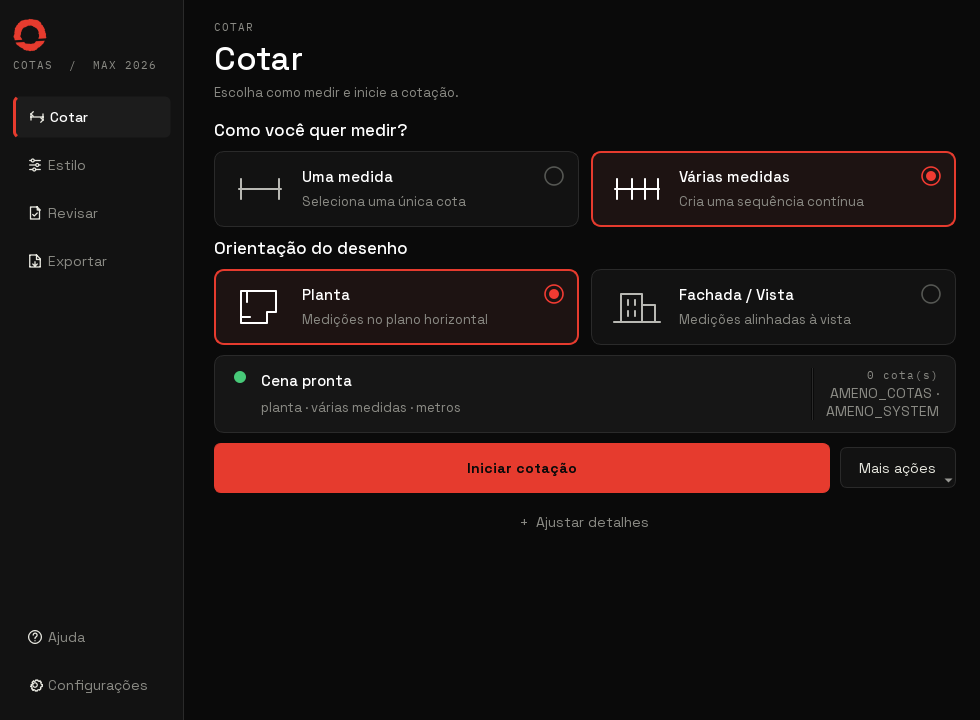
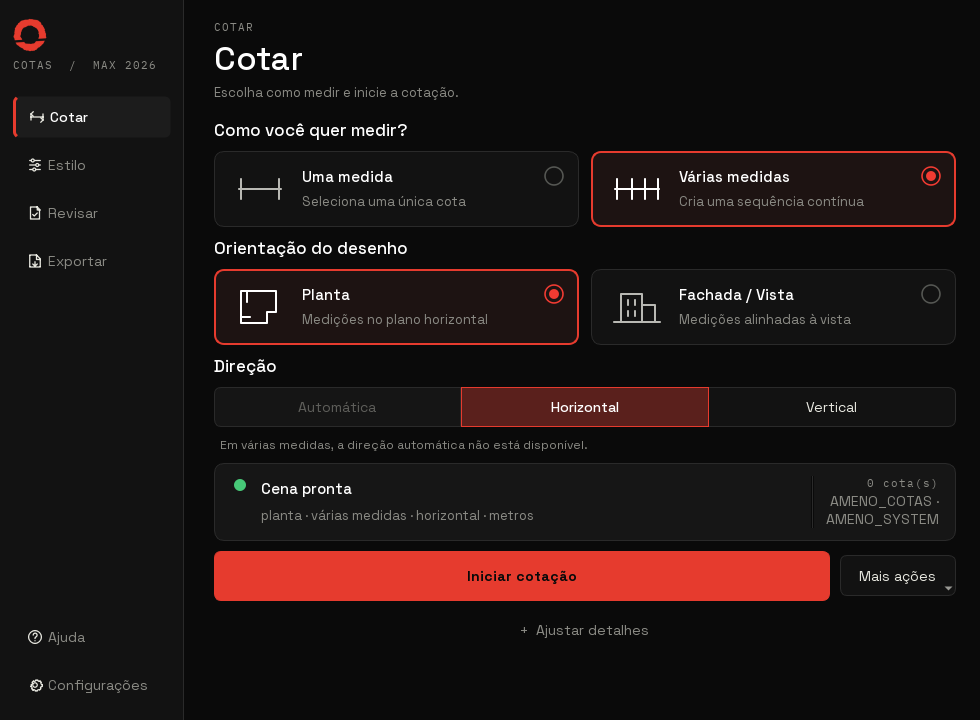
feat(e19): expose direction rules in cotar flow

Changed region(s): [[0.2143, 0.4889, 0.9796, 0.7333], [0.2143, 0.7639, 0.9796, 0.8861], [0.8265, 0.5194, 0.949, 0.5806]]

diff --git a/Contents/python/ameno_ui/create_page.py b/Contents/python/ameno_ui/create_page.py
@@ -6,7 +6,7 @@ from typing import Callable, Dict, List, Optional
 
 from .bridge import BridgeError, UiBridge
 from .common import button, group, message_label, set_bridge_error, set_message
-from .components import ChoiceGroup, Disclosure, PageHeader, SectionHeading, StatusDot
+from .components import ChoiceGroup, Disclosure, PageHeader, SectionHeading, SegmentedChoice, StatusDot
 from .models import CreateSnapshot, SceneSnapshot, StyleSnapshot
 from .preferences import settings
 from .qt_compat import QtCore, QtWidgets
@@ -55,6 +55,7 @@ class CreatePage(QtWidgets.QWidget):
                 ("Várias medidas", "Cria uma sequência contínua", "continuous"),
             )
         )
+        self._last_tool_choice = self.tool_choice.value()
         root.addWidget(self.tool_choice)
         root.addWidget(SectionHeading("Orientação do desenho"))
         self.plane_choice = ChoiceGroup(
@@ -65,13 +66,24 @@ class CreatePage(QtWidgets.QWidget):
         )
         root.addWidget(self.plane_choice)
 
+        root.addWidget(SectionHeading("Direção"))
+        self.mode = SegmentedChoice(
+            (
+                ("Automática", "aligned"),
+                ("Horizontal", "horizontal"),
+                ("Vertical", "vertical"),
+            )
+        )
+        root.addWidget(self.mode)
+        self.direction_message = QtWidgets.QLabel()
+        self.direction_message.setObjectName("DirectionRule")
+        self.direction_message.setWordWrap(True)
+        self.direction_message.setVisible(False)
+        root.addWidget(self.direction_message)
+
         details_box = group("")
         details_form = QtWidgets.QFormLayout(details_box)
         details_form.setFieldGrowthPolicy(QtWidgets.QFormLayout.FieldGrowthPolicy.AllNonFixedFieldsGrow)
-        self.mode = QtWidgets.QComboBox()
-        self.mode.addItem("Direção automática", "aligned")
-        self.mode.addItem("Somente horizontal", "horizontal")
-        self.mode.addItem("Somente vertical", "vertical")
         self.style = QtWidgets.QComboBox()
         self.unit = QtWidgets.QComboBox()
         for label, value in (
@@ -86,7 +98,6 @@ class CreatePage(QtWidgets.QWidget):
         self.precision.setSuffix(" casas")
         self.follow_line = QtWidgets.QCheckBox("Texto acompanha a linha")
         self.follow_line.setChecked(True)
-        details_form.addRow("Direção", self.mode)
         details_form.addRow("Aparência", self.style)
         details_form.addRow("Unidade", self.unit)
         details_form.addRow("Precisão", self.precision)
@@ -161,6 +172,8 @@ class CreatePage(QtWidgets.QWidget):
         self.delete_selection_action.triggered.connect(self.delete_selected)
         self.clear_orphans_action.triggered.connect(self.clear_orphan_dimensions)
         self.delete_all_action.triggered.connect(self.delete_all_dimensions)
+        self.tool_choice.changed.connect(self._on_tool_choice_changed)
+        self.mode.changed.connect(self._on_direction_changed)
         self.tool_choice.changed.connect(self._save_preferences)
         self.tool_choice.changed.connect(lambda *_args: self._update_summary())
         self.plane_choice.changed.connect(self._save_preferences)
@@ -186,6 +199,8 @@ class CreatePage(QtWidgets.QWidget):
         self.clear_orphans = self.clear_orphans_action
         self.delete_all = self.delete_all_action
         self._restore_preferences()
+        self._last_tool_choice = self.tool_choice.value()
+        self._sync_direction_rule(notify=False)
         self._update_summary()
         self.guide.setVisible(False)
 
@@ -214,11 +229,51 @@ class CreatePage(QtWidgets.QWidget):
     def _update_summary(self) -> None:
         tool = "uma medida" if self.tool_choice.value() == "single" else "várias medidas"
         plane = "planta" if self.plane_choice.value() == "worldXY" else "fachada/vista"
+        direction = {
+            "aligned": "automática",
+            "horizontal": "horizontal",
+            "vertical": "vertical",
+        }.get(str(self.mode.currentData()), "direção")
         unit = str(self.unit.currentText() or "unidade padrão").lower()
         self.selection_summary.setText(
-            "%s · %s · %s"
-            % (plane, tool, unit)
+            "%s · %s · %s · %s"
+            % (plane, tool, direction, unit)
         )
+
+    def _on_tool_choice_changed(self, value: str) -> None:
+        changed = value != self._last_tool_choice
+        self._last_tool_choice = value
+        self._sync_direction_rule(notify=changed)
+
+    def _on_direction_changed(self, _value: str) -> None:
+        if self.tool_choice.value() == "continuous":
+            self._show_direction_message(
+                "Em várias medidas, a direção automática não está disponível.",
+                feedback=False,
+            )
+        else:
+            self.direction_message.setVisible(False)
+
+    def _sync_direction_rule(self, notify: bool) -> None:
+        continuous = self.tool_choice.value() == "continuous"
+        was_automatic = self.mode.currentData() == "aligned"
+        if continuous and (was_automatic or notify):
+            self.mode.set_value("horizontal", emit=True)
+        self.mode.set_item_enabled("aligned", not continuous)
+        if continuous:
+            message = (
+                "Direção alterada para Horizontal · Automática só funciona em uma medida."
+                if notify and was_automatic
+                else "Em várias medidas, a direção automática não está disponível."
+            )
+            self._show_direction_message(message, feedback=bool(notify and was_automatic))
+        else:
+            self.direction_message.setVisible(False)
+
+    def _show_direction_message(self, text: str, feedback: bool) -> None:
+        self.direction_message.setText(text)
+        self.direction_message.setProperty("feedback", feedback)
+        self.direction_message.setVisible(True)
 
     @staticmethod
     def _vertical_rule() -> QtWidgets.QFrame:
@@ -248,7 +303,7 @@ class CreatePage(QtWidgets.QWidget):
         self._preferences.setValue("create/precision", self.precision.value())
         self._preferences.setValue("create/followLine", self.follow_line.isChecked())
 
-    def _set_combo(self, combo: QtWidgets.QComboBox, value: str) -> None:
+    def _set_combo(self, combo, value: str) -> None:
         index = combo.findData(value)
         if index >= 0:
             blocker = QtCore.QSignalBlocker(combo)
@@ -332,6 +387,15 @@ class CreatePage(QtWidgets.QWidget):
             self._set_busy(False)
 
     def start_selected(self) -> None:
+        if self.tool_choice.value() == "continuous" and self.mode.currentData() == "aligned":
+            QtWidgets.QMessageBox.warning(
+                self,
+                "Direção automática indisponível",
+                "Em várias medidas, escolha Horizontal ou Vertical para continuar.",
+            )
+            self.mode.set_item_enabled("aligned", False)
+            self.mode.set_value("horizontal", emit=True)
+            return
         if not self.apply_settings():
             return
         self._run_tool(self.tool_choice.value() == "continuous")

diff --git a/Contents/python/ameno_ui/components.py b/Contents/python/ameno_ui/components.py
@@ -242,6 +242,84 @@ class ChoiceGroup(QtWidgets.QWidget):
             self._layout.addWidget(widget, index // columns, index % columns)
 
 
+class SegmentedChoice(QtWidgets.QWidget):
+    """Compact exclusive selector with a small QComboBox-compatible surface."""
+
+    changed = QtCore.Signal(str)
+    currentIndexChanged = QtCore.Signal(int)
+
+    def __init__(self, choices: Sequence[Tuple[str, str]]) -> None:
+        super().__init__()
+        self.setObjectName("SegmentedChoice")
+        self.buttons = QtWidgets.QButtonGroup(self)
+        self.buttons.setExclusive(True)
+        self._items = list(choices)
+        self._by_value = {}
+        layout = QtWidgets.QHBoxLayout(self)
+        layout.setContentsMargins(0, 0, 0, 0)
+        layout.setSpacing(0)
+        last = len(self._items) - 1
+        for index, (label, value) in enumerate(self._items):
+            widget = QtWidgets.QPushButton(label)
+            widget.setCheckable(True)
+            widget.setProperty("segment", True)
+            widget.setProperty("segmentPosition", "first" if index == 0 else "last" if index == last else "middle")
+            widget.setProperty("choiceValue", value)
+            widget.setAccessibleName("Direção: " + label)
+            widget.setMinimumHeight(36)
+            self.buttons.addButton(widget, index)
+            self._by_value[value] = widget
+            layout.addWidget(widget, 1)
+            widget.clicked.connect(lambda checked=False, item=value: self._emit_clicked(item) if checked else None)
+        if self._items:
+            self.set_value(self._items[0][1], emit=False)
+
+    def value(self) -> str:
+        checked = self.buttons.checkedButton()
+        return str(checked.property("choiceValue")) if checked is not None else ""
+
+    def currentData(self) -> str:
+        return self.value()
+
+    def currentIndex(self) -> int:
+        return self.findData(self.value())
+
+    def findData(self, value: str) -> int:
+        for index, (_label, item_value) in enumerate(self._items):
+            if item_value == value:
+                return index
+        return -1
+
+    def setCurrentIndex(self, index: int) -> None:
+        if 0 <= index < len(self._items):
+            self.set_value(self._items[index][1], emit=True)
+
+    def set_value(self, value: str, emit: bool = False) -> None:
+        widget = self._by_value.get(value)
+        if widget is None or not widget.isEnabled():
+            return
+        changed = self.value() != value
+        widget.setChecked(True)
+        if emit and changed:
+            index = self.findData(value)
+            self.changed.emit(value)
+            self.currentIndexChanged.emit(index)
+
+    def _emit_clicked(self, value: str) -> None:
+        index = self.findData(value)
+        self.changed.emit(value)
+        self.currentIndexChanged.emit(index)
+
+    def set_item_enabled(self, value: str, enabled: bool) -> None:
+        widget = self._by_value.get(value)
+        if widget is not None:
+            widget.setEnabled(enabled)
+
+    def is_item_enabled(self, value: str) -> bool:
+        widget = self._by_value.get(value)
+        return bool(widget is not None and widget.isEnabled())
+
+
 class Disclosure(QtWidgets.QWidget):
     def __init__(self, label: str, content: QtWidgets.QWidget, expanded: bool = False) -> None:
         super().__init__()

diff --git a/tests/python/test_e19_cotar_reference.py b/tests/python/test_e19_cotar_reference.py
@@ -13,7 +13,7 @@ sys.path.insert(0, str(ROOT / "Contents" / "python"))
 
 from PySide6 import QtCore, QtWidgets  # noqa: E402
 
-from ameno_ui.components import ChoiceCard  # noqa: E402
+from ameno_ui.components import ChoiceCard, SegmentedChoice  # noqa: E402
 from ameno_ui.window import AmenoMainWindow  # noqa: E402
 
 
@@ -73,4 +73,62 @@ def test_choice_cards_keep_one_active_option_per_question() -> None:
     assert page.plane_choice.value() == "viewPlane"
     assert sum(card.isChecked() for card in page.tool_choice.findChildren(ChoiceCard)) == 1
     assert sum(card.isChecked() for card in page.plane_choice.findChildren(ChoiceCard)) == 1
+    window.close()
+
+
+def test_continuous_measurement_prevents_automatic_direction_in_the_main_flow() -> None:
+    _app()
+    os.environ["AMENO_SETTINGS_FILE"] = str(Path(tempfile.mkdtemp()) / "e19-direction.ini")
+    window = AmenoMainWindow(ReferenceBridge(), lambda _token: None, lambda: None)
+    page = window.shell.pages["create"]
+    assert isinstance(page.mode, SegmentedChoice)
+    page.tool_choice.set_value("single", emit=True)
+    page.mode.set_value("aligned", emit=True)
+
+    page.tool_choice.set_value("continuous", emit=True)
+
+    assert page.mode.currentData() == "horizontal"
+    assert not page.mode.is_item_enabled("aligned")
+    assert not page.direction_message.isHidden()
+    assert page.direction_message.text() == (
+        "Direção alterada para Horizontal · Automática só funciona em uma medida."
+    )
+
+    page.mode.set_value("vertical", emit=True)
+    assert page.mode.currentData() == "vertical"
+    assert page.direction_message.text() == (
+        "Em várias medidas, a direção automática não está disponível."
+    )
+
+    page.tool_choice.set_value("single", emit=True)
+    assert page.mode.is_item_enabled("aligned")
+    assert page.direction_message.isHidden()
+    page.mode.set_value("vertical", emit=True)
+    page.tool_choice.set_value("continuous", emit=True)
+    assert page.mode.currentData() == "horizontal"
+    assert page.direction_message.text() == (
+        "Em várias medidas, a direção automática não está disponível."
+    )
+    window.close()
+
+
+def test_invalid_direction_modal_is_only_a_start_fallback() -> None:
+    _app()
+    os.environ["AMENO_SETTINGS_FILE"] = str(Path(tempfile.mkdtemp()) / "e19-fallback.ini")
+    window = AmenoMainWindow(ReferenceBridge(), lambda _token: None, lambda: None)
+    page = window.shell.pages["create"]
+    page.tool_choice.set_value("continuous", emit=True)
+    automatic = page.mode._by_value["aligned"]
+    automatic.setEnabled(True)
+    automatic.setChecked(True)
+    automatic.setEnabled(False)
+    calls = []
+    original = QtWidgets.QMessageBox.warning
+    QtWidgets.QMessageBox.warning = lambda *args: calls.append(args)  # type: ignore[assignment]
+    try:
+        page.start_selected()
+    finally:
+        QtWidgets.QMessageBox.warning = original  # type: ignore[assignment]
+    assert len(calls) == 1
+    assert page.mode.currentData() == "horizontal"
     window.close()

diff --git a/Contents/python/ameno_ui/theme.py b/Contents/python/ameno_ui/theme.py
@@ -93,6 +93,7 @@ QLabel#ChoiceTitle { color: %(white)s; font-size: 11.5pt; font-weight: 600; }
 QLabel#ChoiceHint { color: %(muted)s; font-size: 9.5pt; }
 QLabel#SelectionSummary { color: %(muted)s; font-size: 9.5pt; }
 QLabel#SceneTitle { color: %(white)s; font-size: 11pt; font-weight: 600; }
+QLabel#DirectionRule { color: %(muted)s; font-size: 9pt; padding: 0 3px; }
 QLabel#Status {
     background-color: %(secondary)s;
     border: 1px solid %(border)s;
@@ -201,6 +202,36 @@ QPushButton#ChoiceCard:hover { background-color: %(hover)s; border-color: #3A3A3
 QPushButton#ChoiceCard:checked { border: 2px solid %(red)s; background-color: #1D1312; }
 QPushButton#ChoiceCard:focus { border: 2px solid #62645F; }
 QPushButton#ChoiceCard:focus:checked { border: 2px solid %(red)s; }
+QPushButton[segment="true"] {
+    background-color: %(secondary)s;
+    border: 1px solid %(border)s;
+    border-radius: 0;
+    color: %(text)s;
+    min-height: 36px;
+    padding: 1px 10px;
+}
+QPushButton[segment="true"][segmentPosition="first"] {
+    border-top-left-radius: 7px;
+    border-bottom-left-radius: 7px;
+}
+QPushButton[segment="true"][segmentPosition="middle"],
+QPushButton[segment="true"][segmentPosition="last"] { border-left: 0; }
+QPushButton[segment="true"][segmentPosition="last"] {
+    border-top-right-radius: 7px;
+    border-bottom-right-radius: 7px;
+}
+QPushButton[segment="true"]:hover { background-color: %(hover)s; }
+QPushButton[segment="true"]:checked {
+    background-color: #5A201C;
+    border: 1px solid %(red)s;
+    color: %(white)s;
+    font-weight: 600;
+}
+QPushButton[segment="true"]:disabled {
+    background-color: #151515;
+    border-color: %(border)s;
+    color: #5E5E5A;
+}
 QToolButton {
     background-color: %(secondary)s;
     border: 1px solid %(border)s;

diff --git a/plans/2026-09-10-e19-correcao-visual-interface-qt.md b/plans/2026-09-10-e19-correcao-visual-interface-qt.md
@@ -111,6 +111,11 @@ automação isolada, 100%, 125%, 150% e 200%.
   neutros.
 - Sidebar permanece compacta e legível; Ajuda e Configurações não cortam.
 - Estado da cena comunica prontidão, resumo, contagem e layers sem duplicação.
+- Direção fica no fluxo principal em um seletor segmentado compacto. Automática
+  é exclusiva de Uma medida; ao ativar Várias medidas, a interface escolhe
+  Horizontal, mantém Automática visível e desabilitada e explica a regra.
+- Combinação contínua + automática é impedida por estado; modal existe somente
+  como fallback no CTA e nunca como fluxo normal.
 - Detalhes e manutenção ficam sob demanda e não competem com o primeiro uso.
 - A referência preservada é `work/e19-reference/01-cotar-target.png`.
 

diff --git a/work/e19-reference/README.md b/work/e19-reference/README.md
@@ -19,3 +19,13 @@ Critérios vinculantes informados pelo usuário:
 6. vermelho somente no estado ativo e na ação principal;
 7. baixa poluição visual;
 8. componentes reutilizáveis.
+
+## Regra de direção adicionada em 2026-09-10
+
+- Direção aparece no fluxo principal após Orientação do desenho.
+- Controle segmentado: Automática, Horizontal e Vertical.
+- Automática funciona somente com Uma medida.
+- Ao ativar Várias medidas, Horizontal vira o padrão e Automática permanece
+  visível, porém desabilitada.
+- A limitação e qualquer correção automática recebem feedback curto na tela.
+- Modal de erro é apenas fallback antes de iniciar uma combinação inválida.

diff --git a/work/e19-visual/README.md b/work/e19-visual/README.md
@@ -4,7 +4,7 @@
 
 - Arquivo: `01-cotar-980x720.png`
 - Tamanho da janela: 980×720 px.
[2 lines of base64/hex data omitted]
 - Resultado: quatro cards íntegros, CTA visível e scrollbar horizontal em zero.
 - Testes associados: `tests/python/test_e19_cotar_reference.py`.
 
